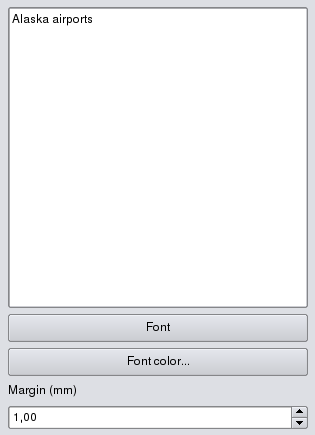
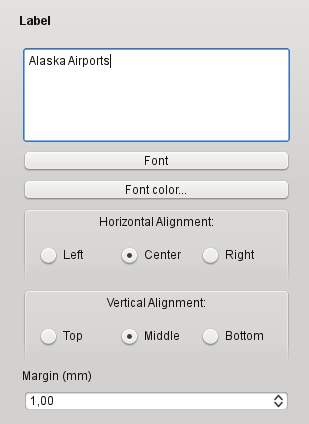
update map composer
git-svn-id: https://svn.osgeo.org/qgis/docs/trunk@14578 c8812cc2-4d05-0410-92ff-de0c093fc19c

diff --git a/english_us/user_guide/print_composer.tex b/english_us/user_guide/print_composer.tex
@@ -124,7 +124,8 @@ element.
 You can add multiple elements to the composer. It is also possible to have
 more than one map view or legend or scalebar in the print composer canvas.
 Each element has its own properties and in the case of the map, its own
-extent.
+extent. If you want to remove an elements from the composer canvas. you can 
+do that with the \keystroke{delete} or the \keystroke{backspace} key.
 
 \section{Adding a current QGIS map canvas to the Print Composer}
 
@@ -281,8 +282,8 @@ functionalities (see Figure \ref{fig:label_option}a)):
 
 \begin{itemize}[label=--]
 \item The \textbf{Label} dialog offers to add text labels to the composer
-canvas. You can select font and fontcolor for the text and it is possible to
-define a text margin im mm.
+canvas. You can define the horizontal and vertical alignment, select font 
+and fontcolor for the text and it is possible to define a text margin im mm.
 \end{itemize}
 
 \minisec{General options dialog}
@@ -498,9 +499,12 @@ functionalities (see Figure \ref{fig:attrcomp}a)):
 
 \begin{itemize}[label=--]
 \item The \textbf{Table} dialog allows to select the vector layer and columns of
-the attribute table. You can define the maximum number of rows to be displayed
+the attribute table. Attribute columns can be sorted and you can define to show 
+its values ascending or descending. 
+\item You can define the maximum number of rows to be displayed
 and if attributes are only shown for visible features of the current composer
-canvas. Additionally you can define the grid characteristics of the table and
+canvas. 
+\item Additionally you can define the grid characteristics of the table and
 the header and content font.
 \end{itemize}
 
